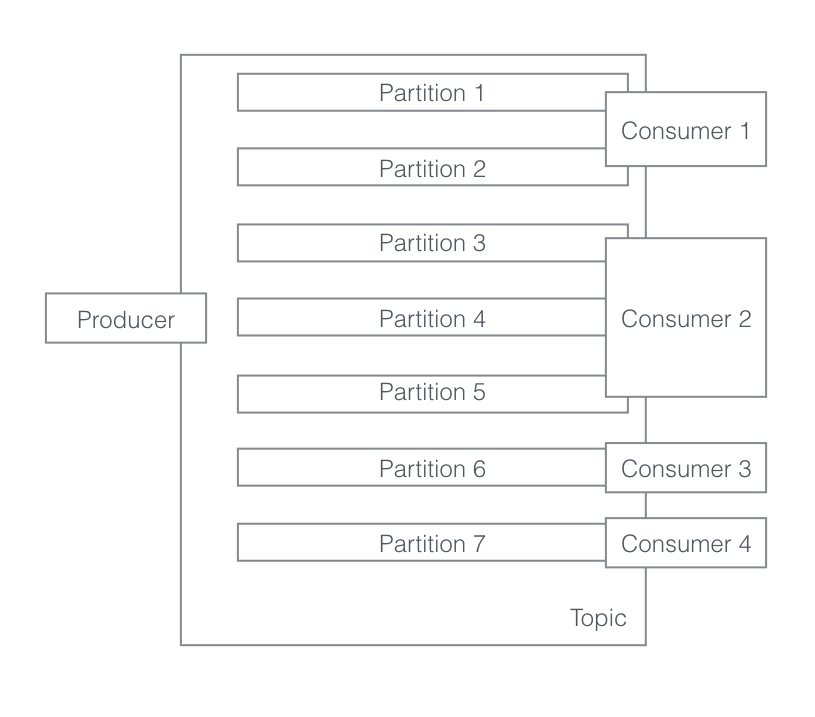
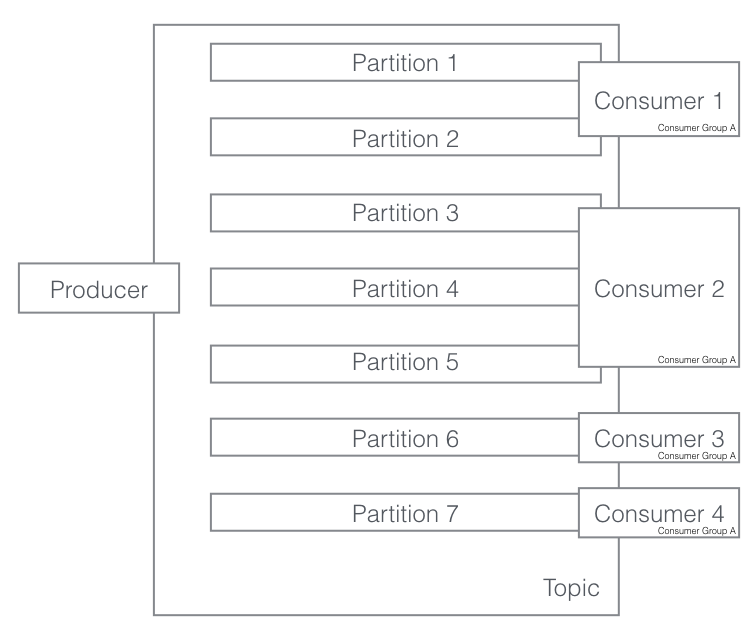
updated architecture diagram, redrafted README

Changed region(s): [[0.0305, 0.0312, 1.0, 0.9657], [0.9748, 0.0935, 1.0, 0.1869], [0.7921, 0.9346, 0.8225, 0.9657]]

diff --git a/README.md b/README.md
@@ -1,13 +1,10 @@
 # Message Hub Example Code
 
-
-IBM Message Hub is a Bluemix managed instance of Apache Kafka, a massively scalable message queue architected as a distributed transaction log. Kafka was originally developed at LinkedIn before being open sourced. Used by Walmat, Netflix, Uber and Betfair. In most cases, Message Hub can be used as if it is a Kafka Queue.
-
-A new Message Hub instance can be created using the Bluemix dashboard.
+IBM Message Hub is a [Bluemix](https://console.ng.bluemix.net) managed instance of [Apache Kafka](http://kafka.apache.org), a massively scalable message queue, architected as a distributed transaction log. Kafka was originally developed at LinkedIn before being open sourced.
 
 
 ## Message Hub Terminology
-![alt text](readme-images/message-hub-arch.png "Message Hub Architecture")
+![Message Hub architecture](readme-images/message-hub-arch.png "Message Hub Architecture")
 
 
 ### Producers
@@ -15,15 +12,15 @@ Producers are responsible for putting data on to Message Hub, publishing message
 
 
 ### Topics
-Topics are used to organise messages in to different queues. You send messages to a specific topic with the producer and receive messages for a specific topic in the consumer.
+Topics are used to organise data in to different queues. Messages are sent to a specific topic with a producer and received via a consumer.
 
 
 ### Partitions
-Partitions are used to subdivide a topic. A partition effectively gives you another queue, adding scalability (storage and throughput) to a topic without the developer having to deal with the underlying infrastructure. Partitions are also required to load balance messages between different consumers in a consumer group.
+Partitions are used to subdivide a topic. A partition effectively provides another queue, adding scalability (storage and throughput) to a topic without the developer having to deal with the underlying infrastructure. Partitions are required to load balance messages between different consumers in a consumer group.
 
 
 ### Consumers
-Consumers are responsible for taking messages from Message Hub on a specific topic.  Each client is given a unique client ID.
+Consumers are responsible for taking messages from Message Hub on a specific topic.  Each consumer instance is given a unique client ID.
 
 
 ### Consumer Groups
@@ -31,11 +28,11 @@ Consumer groups organise consumer instances into groups. Grouping consumers allo
 
 
 ## Example Code
-The Java code shows how to send and receive messages from Messgae Hub using the Apache Kafka libraries.  
+The following Java code shows how to send and receive messages from Message Hub using the standard [Apache Kafka API](http://kafka.apache.org/documentation.html#api).
 
 
 ### Producer.java
-Producer.java creates a Kafka producer and adds a message on to Message Hub every second.
+Producer.java creates a Kafka producer and adds a new message to Message Hub every second.
 
     KafkaProducer<String, String> kafkaProducer = new KafkaProducer<String, String>(properties);
 
@@ -58,7 +55,7 @@ Producer.java creates a Kafka producer and adds a message on to Message Hub ever
 
 
 ### Consumer.java
-Consumer.java creates a Kafka consumer and reads messages from the Message Hub queue.
+Consumer.java creates a Kafka consumer and reads messages from the queue. After reading a set of messages it sends a commit instruction via the Kafka consumer, this allows Message Hub to know which messages have been read by this consumer group.
 
     KafkaConsumer<String,String> kafkaConsumer = new KafkaConsumer<String, String>(properties);
 
@@ -84,76 +81,86 @@ Consumer.java creates a Kafka consumer and reads messages from the Message Hub q
 ### Editing configuration
 The example code uses two configuration files.  
 
-Kafka properties for both consumers and producers is in *resouces/kafka.properties* including the name of the topic to use (cscc.topic).  All the consumers and producers in the examples use this configuration file.
+Kafka properties for both consumers and producers are set in *resouces/kafka.properties*, including the name of the topic to use (cscc.topic). All of the consumers and producers in the examples use this same configuration file.
 
-Only one producer is used in this example.  Its configuration can be set by copying *local-producer.env.template* to *local-producer.env* and filling in the Message Hub username and password taken from the Bluemix dashboard.
+Only one producer is used in this example. Its configuration can be set by copying *local-producer.env.template* to *local-producer.env* and filling in the Message Hub username and password taken from the Bluemix dashboard.
 
-Two consumers are used in this example.  Their configuration can be set by copying local-consumer-1.env.template to local-consumer-1.env and local-consumer-2.env.template to local-consumer-2.env and filling in the Message Hub username and password taken from the Bluemix dashboard.  The consumer properties files allow the consumer group to be set, this will be changed depending on how Message Hub is being used (see below).
+Two consumers are used in this example. Their configuration can be set by copying local-consumer-1.env.template to local-consumer-1.env and local-consumer-2.env.template to local-consumer-2.env and filling in the Message Hub username and password taken from the Bluemix dashboard.  The consumer properties files allow the consumer group to be set, this will be changed depending on how Message Hub is being used (see below).
 
 
 ### Setting up Topic
-Topics need to be configured in the Message Hub administration panel before they can be used.
+A new Message Hub instance can be created using the Bluemix dashboard. Search the catalog for *Message Hub* and create a new instance of the service. You'll need to give the service a name and create some credentials. Once created, you'll be able to access the user name and password though the Service Credentials panel in the Bluemix dashboard.
+
+Topics need to be created before they can be used, also through the dashboard.
 
 ![alt text](readme-images/message-hub-admin.png "Message Hub Administration")
 
-When creating a topic, you need to specify two properties: the maximum time period messages will stay on that queue for and how many partitions should be used for the topic.  A Message Hub partition is currently limited to 1GB of data.  Once full, the oldest messages will be removed to make way for new ones.
+When creating a topic, you need to specify two properties: the maximum time period messages will stay on that queue for and how many partitions should be used for the topic. A Message Hub partition is currently limited to 1GB of data. Once full, the oldest messages will be removed to make way for new ones.
 
 ### Building and running examples
-The code can be built from a script if your development machine has Java 7, Maven and Gradle installed.  If not, it can be built from a virtual machine using the Vagrant file.
+The code can be built using the build.sh script if the development machine has Java 7, Maven and Gradle installed.  
 
         ./build.sh
 
+The code can also be built via a Vagrant virtual machine preconfigured with Java, Maven and Gradle.
+
+        vagrant up
+        vagran ssh
+        cd /vagrant
+        ./bulid.sh
+
 
 ### Single Consumer Example
+Message Hub acts as buffer with the producer and consumer decoupled. The consumer will process messages as quickly as it can, but wont be overloaded with input data. The consumer can disconnect and it will get data from where it left off (last commit) in the queue when it reconnects.
 
         ./start-producer.sh
         ./start-consumer-1.sh
-
-Message Hub acts as buffer with the producer and consumer decoupled.  The consumer will process the data as quickly as it can, but wont be overloaded with input data.  The consumer can disconnect and it will get data from where it left off (last commit).
 
 
 ### Multiple Consumers, Different Consumer Group Example
-* Set each consumer to have a unique client ID
-* Set each consumer to have a unique consumer group name
+Message Hub working on publish-subscribe model. Each consumer receives all messages. If one cosumer disconnects and reconnects it will carry on from where it left off.
+
+* Set each consumer to have a unique client ID.
+* Set each consumer to have a unique consumer group name.
 
         ./start-producer.sh
         ./start-consumer-1.sh
         ./start-consumer-2.sh
-
-Message Hub working on publish-subscribe model.  Each consumer gets all the messages.  If one disconnects and reconnects it will carry on from where it left off.
 
 
 ### Multiple Consumers, Same Consumer Group Example
-* Set each consumer to have a unique client ID
-* Set each consumer to have the same consumer group name
+Message Hub delivers each message to just one instance in a given consumer group. This can be used for load balancing. The default behavior is round-robin, but can be defined through the API.
+
+You must have at least as many partitions as there are consumer groups to load balance across. It is ok to have more partitions than consumer groups as a single consumer group can span multiple partitions.
+
+* Set each consumer to have a unique client ID.
+* Set each consumer to have the same consumer group name.
 
         ./start-producer.sh
         ./start-consumer-1.sh
         ./start-consumer-2.sh
 
-Message Hub delivers each message to just one instance in a given consumer group.  This can be used for load balancing.  Default behavior is round-robin, but can be defined through the API.
-
-Must have at least as many partitions as there are consumer groups to load balance across all the consumer groups.  It is ok to have more partitions as a single consumer group can span multiple partitions.
-
 
 ### Single Consumer, New Consumer Group Example
-* Set consumer-1 to have a new consumer group name
-* Leave consumer-2 with its existing consumer group name
-* Set auto.offset.reset Kafka property to earliest
+With Message Hub you can change the position in the queue that processing should start from. The default is to process from the last committed message, but this can be reset to the beginning (or anywhere else) through the API. Alternatively, a new consumer group (commits are stored against a consumer group) can be used. If there is a new consumer group, Message Hub uses the auto.offset.reset configuration property to work out where in the queue to start from (e.g. earliest).
+
+This configuration can be made use of in a [Lambda](https://en.wikipedia.org/wiki/Lambda_architecture) or [Kappa](ttp://milinda.pathirage.org/kappa-architecture.com/) architecture where a transaction log is used as the data store. Values are calculated by processing the full queue of transaction.
+
+* Set consumer-1 to have a new consumer group name, that's not been used before.
+* Leave consumer-2 with its existing consumer group name.
+* Set auto.offset.reset Kafka property to earliest.
 
         ./start-producer.sh
         ./start-consumer-1.sh
         ./start-consumer-1.sh
 
-With doing real time analytics you normally have to do a combination of real time processing and reading from stored values. Message Hub can be used as a Kappa Architecture, where there is no traditional data store, only an append-only immutable log.  The idea is that you store the transactions, not the calculated values.
-
-In message hub you can reset the position in the log that you start processing from.  The default is to process from the last committed message, but this can be reset to the beginning in the API.  The other alternative is to use a new consumer group name (commits are stored against a consumer group).  If there is a new consumer group, Message Hub uses the auto.offset.reset configuration property to work out where in the queue to start from (e.g. earliest).
-
 
 ## References
+* https://console.ng.bluemix.net/docs/services/MessageHub/index.html#messagehub
 * https://developer.ibm.com/messaging/message-hub/
 * http://kafka.apache.org
 * https://en.wikipedia.org/wiki/Apache_Kafka
 * http://techblog.netflix.com/2016/04/kafka-inside-keystone-pipeline.html
 * https://eng.uber.com/streamific/
+* https://en.wikipedia.org/wiki/Lambda_architecture
 * http://milinda.pathirage.org/kappa-architecture.com/
